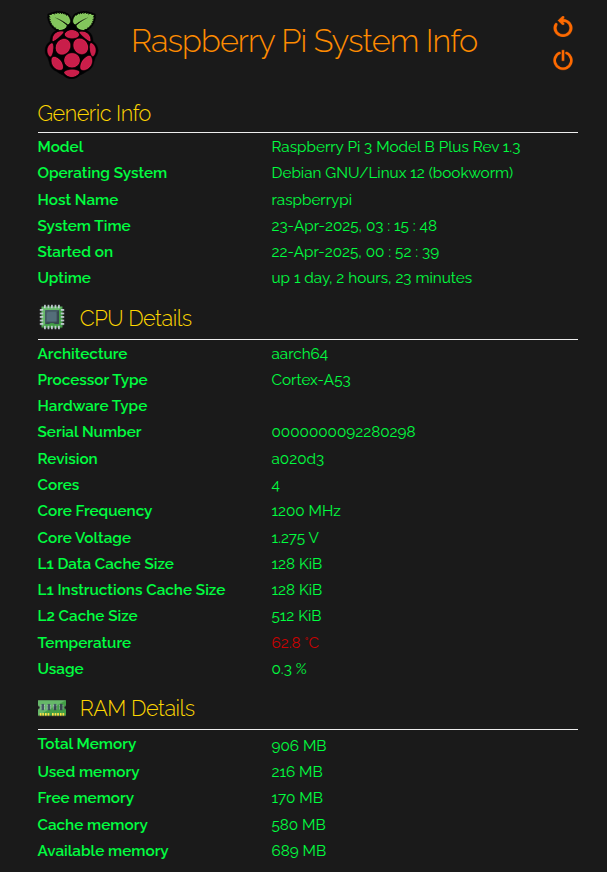
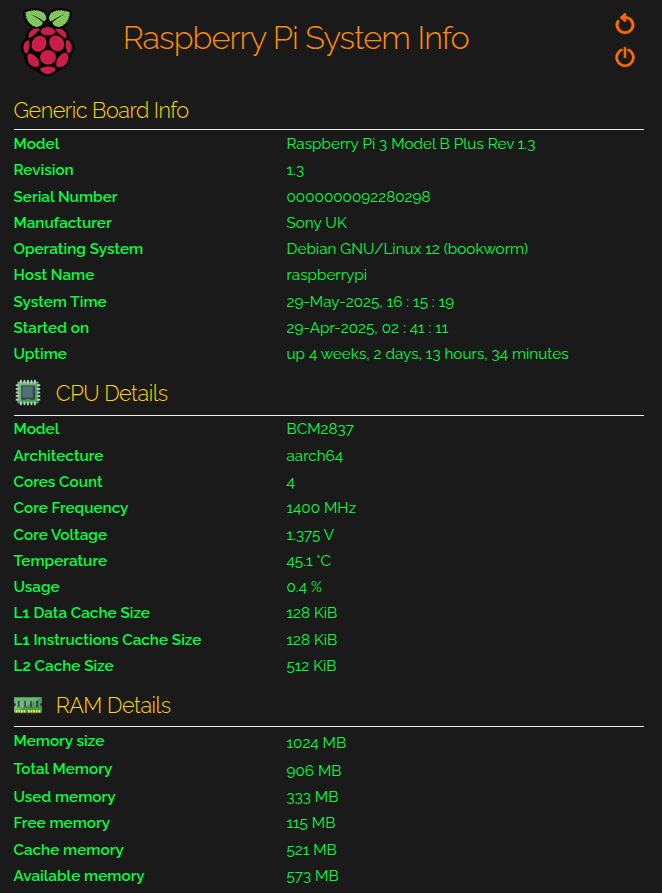
refactor: updated README.md

diff --git a/README.md b/README.md
@@ -1,14 +1,18 @@
 # Raspberry Pi system info
 
+[![license](https://img.shields.io/npm/l/pirev.svg?style=flat)](https://opensource.org/licenses/MIT)
+
 This project is a simple web server that displays system information about your Raspberry Pi.
 
 <div align="center">
     <img src="title.png">
 </div>
 
-The information includes the board model, hostname, OS details, CPU (type, architecture, revision, serial number, number of cores, frequency, voltage, temperature, usage), RAM (total, used, free, cache, available), network interfaces (ip, mac), mounted disks and processes running in the system. 
+The information includes generic board info, CPU details (model, architecture, number of cores, frequency, voltage, temperature, usage), RAM (total, used, free, cache, available), network interfaces (ip, mac), mounted disks and processes running in the system. 
 
-Information about disks and processes is displayed in tables. You can sort the tables by clicking on the column in the header
+Some information is parsed from the device's [revision code](https://www.raspberrypi.com/documentation/computers/raspberry-pi.html#raspberry-pi-revision-codes) located in /proc/cpuinfo.
+
+Information about disks and processes is presented in the form of tables. You can sort the tables by clicking on the column in the header.
 
 The web server is based on Flask framework. By default the application will run on port 8080. It can be changed in env file.
 
